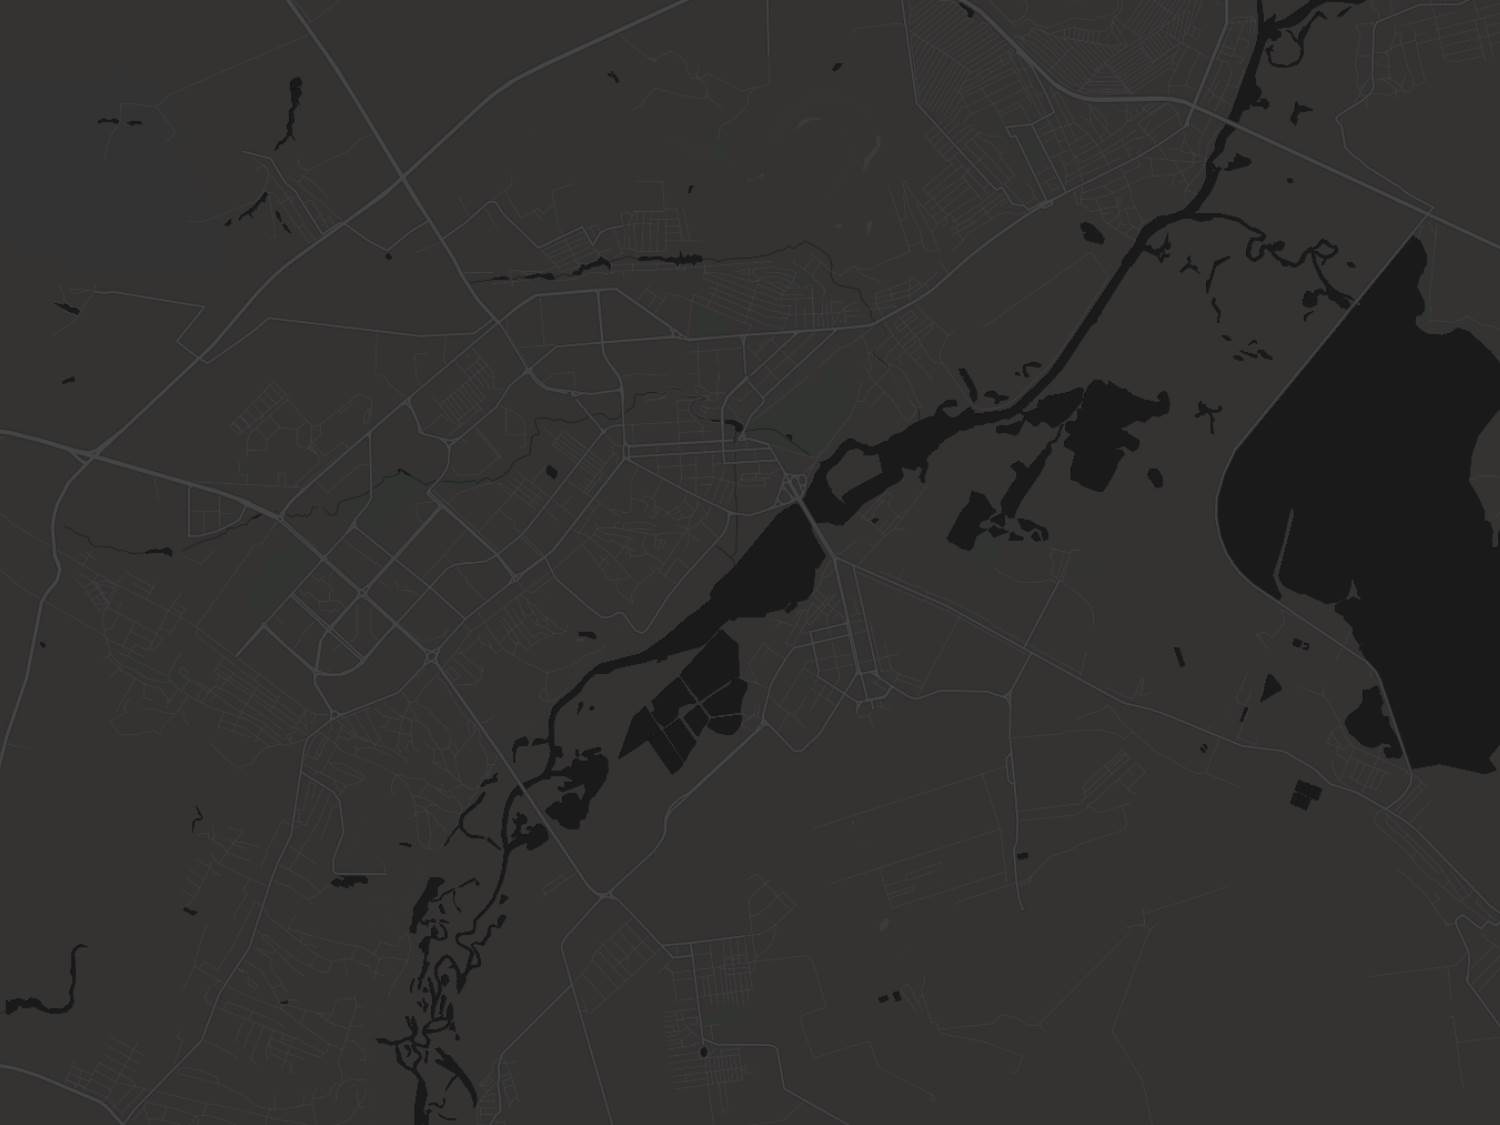
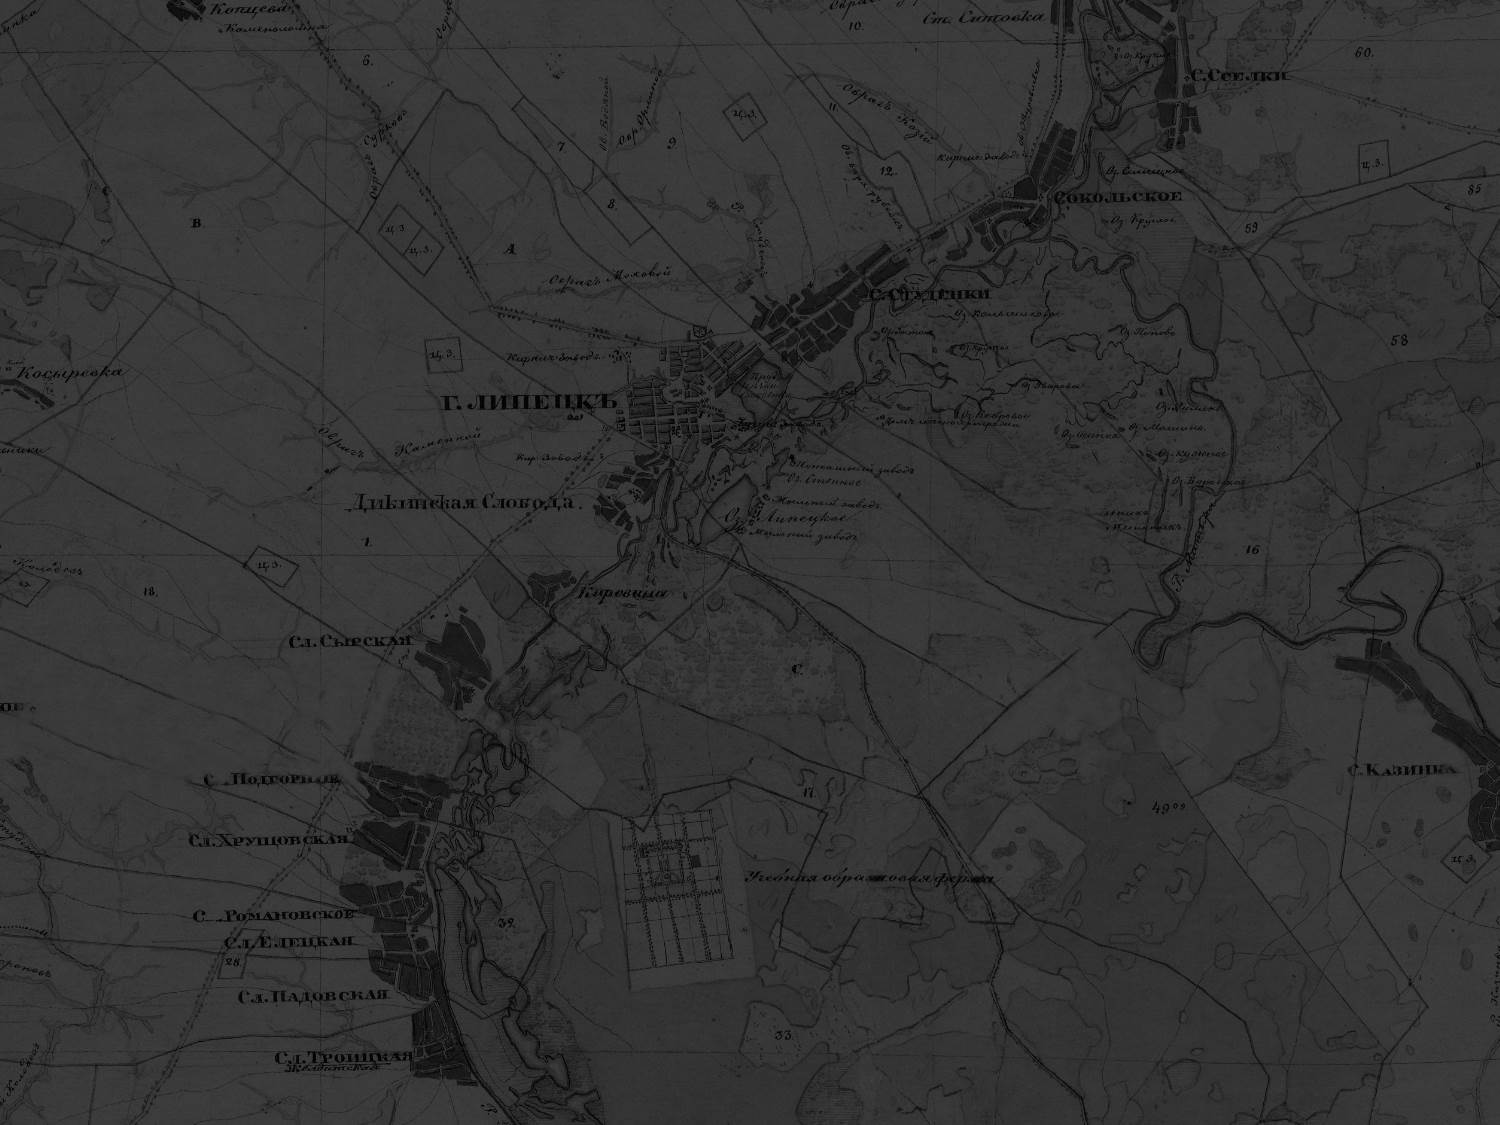
1

diff --git a/css/grayscale.min.css b/css/grayscale.min.css
@@ -2,4 +2,4 @@
  * Start Bootstrap - Grayscale v4.0.0-beta.2 (https://startbootstrap.com/template-overviews/grayscale)
  * Copyright 2013-2017 Start Bootstrap
  * Licensed under MIT (https://github.com/BlackrockDigital/startbootstrap-grayscale/blob/master/LICENSE)
- */body{font-family:Lora,'Helvetica Neue',Helvetica,Arial,sans-serif;position:relative;width:100%;height:100%;color:#fff;background-color:#000}html{width:100%;height:100%}h1,h2,h3,h4,h5,h6{font-family:Cabin,'Helvetica Neue',Helvetica,Arial,sans-serif;font-weight:700;margin:0 0 35px;letter-spacing:1px;text-transform:uppercase}p{font-size:16px;line-height:1.5;margin:0 0 25px}@media (min-width:768px){p{font-size:18px;line-height:1.6;margin:0 0 35px}}a{-webkit-transition:all .2s ease-in-out;-moz-transition:all .2s ease-in-out;transition:all .2s ease-in-out;color:#fff}a:focus,a:hover{text-decoration:none;color:#1d9b6c}#mainNav{font-family:Cabin,'Helvetica Neue',Helvetica,Arial,sans-serif;margin-bottom:0;text-transform:uppercase;border-bottom:1px solid rgba(255,255,255,.3);background-color:#000}#mainNav .navbar-toggler{font-size:14px;padding:11px;color:#fff;border:1px solid #fff}#mainNav .navbar-brand{font-weight:700}#mainNav a{color:#fff}#mainNav .navbar-nav .nav-item{-webkit-transition:background .3s ease-in-out;-moz-transition:background .3s ease-in-out;transition:background .3s ease-in-out}#mainNav .navbar-nav .nav-item:hover{color:fade(white,80%);outline:0;background-color:transparent}#mainNav .navbar-nav .nav-item:active,#mainNav .navbar-nav .nav-item:focus{outline:0;background-color:transparent}@media (min-width:992px){#mainNav{padding-top:20px;padding-bottom:20px;-webkit-transition:background .3s ease-in-out,padding-top .3s ease-in-out,padding-bottom .3s;-moz-transition:background .3s ease-in-out,padding-top .3s ease-in-out,padding-bottom .3s;transition:background .3s ease-in-out,padding-top .3s ease-in-out,padding-bottom .3s;letter-spacing:1px;border-bottom:none;background:0 0}#mainNav.navbar-shrink{padding-top:10px;padding-bottom:10px;border-bottom:1px solid rgba(255,255,255,.3);background:#000}#mainNav .nav-link.active{outline:0;background-color:rgba(255,255,255,.3)}#mainNav .nav-link.active:hover{color:#fff}}.masthead{display:table;width:100%;height:auto;padding:200px 0;text-align:center;color:#fff;background:url(../img/intro-bg.jpg) no-repeat bottom center scroll;background-color:#000;-webkit-background-size:cover;-moz-background-size:cover;-o-background-size:cover;background-size:cover}.masthead .intro-body{display:table-cell;vertical-align:middle}.masthead .intro-body .brand-heading{font-size:50px}.masthead .intro-body .intro-text{font-size:18px}@media (min-width:768px){.masthead{height:100%;padding:0}.masthead .intro-body .brand-heading{font-size:100px}.masthead .intro-body .intro-text{font-size:22px}}.btn-circle{font-size:26px;width:55px;height:55px;margin-top:15px;line-height:45px;-webkit-transition:background .3s ease-in-out;-moz-transition:background .3s ease-in-out;transition:background .3s ease-in-out;color:#fff;border:2px solid #fff;border-radius:100%!important;background:0 0}.btn-circle:focus,.btn-circle:hover{color:#fff;outline:0;background:rgba(255,255,255,.1)}.content-section{background: url("../img/intro-about.jpg") no-repeat bottom center scroll;padding-top:150px;padding-bottom:150px}.contentabout-section {background: url("../img/intro-about.jpg") no-repeat bottom center scroll;}.download-section{color:#fff;background:url(../img/downloads-bg.jpg) no-repeat center center scroll;background-color:#000;-webkit-background-size:cover;-moz-background-size:cover;-o-background-size:cover;background-size:cover}@media (min-width:992px){.content-section{padding-top:200px;padding-bottom:200px}}.btn{font-family:Cabin,'Helvetica Neue',Helvetica,Arial,sans-serif;font-weight:400;-webkit-transition:all .3s ease-in-out;-moz-transition:all .3s ease-in-out;transition:all .3s ease-in-out;text-transform:uppercase;border-radius:0}.btn-default{color:#42dca3;border:1px solid #42dca3;background-color:transparent}.btn-default:focus,.btn-default:hover{color:#000;border:1px solid #42dca3;outline:0;background-color:#42dca3}ul.banner-social-buttons{margin-top:0}@media (max-width:1199px){ul.banner-social-buttons{margin-top:15px}}@media (max-width:767px){ul.banner-social-buttons li{display:block;margin-bottom:20px;padding:0}ul.banner-social-buttons li:last-child{margin-bottom:0}}footer{padding:50px 0}footer p{font-size:14px;margin:0}::-moz-selection{background:#fcfcfc;background:rgba(255,255,255,.2);text-shadow:none}::selection{background:#fcfcfc;background:rgba(255,255,255,.2);text-shadow:none}img::selection{background:0 0}img::-moz-selection{background:0 0}body{-webkit-tap-highlight-color:rgba(255,255,255,.2)}
+ */body{font-family:Lora,'Helvetica Neue',Helvetica,Arial,sans-serif;position:relative;width:100%;height:100%;color:#fff;background-color:#000}html{width:100%;height:100%}h1,h2,h3,h4,h5,h6{font-family:Cabin,'Helvetica Neue',Helvetica,Arial,sans-serif;font-weight:700;margin:0 0 35px;letter-spacing:1px;text-transform:uppercase}p{font-size:16px;line-height:1.5;margin:0 0 25px}@media (min-width:768px){p{font-size:18px;line-height:1.6;margin:0 0 35px}}a{-webkit-transition:all .2s ease-in-out;-moz-transition:all .2s ease-in-out;transition:all .2s ease-in-out;color:#fff}a:focus,a:hover{text-decoration:none;color:#1d9b6c}#mainNav{font-family:Cabin,'Helvetica Neue',Helvetica,Arial,sans-serif;margin-bottom:0;text-transform:uppercase;border-bottom:1px solid rgba(255,255,255,.3);background-color:#000}#mainNav .navbar-toggler{font-size:14px;padding:11px;color:#fff;border:1px solid #fff}#mainNav .navbar-brand{font-weight:700}#mainNav a{color:#fff}#mainNav .navbar-nav .nav-item{-webkit-transition:background .3s ease-in-out;-moz-transition:background .3s ease-in-out;transition:background .3s ease-in-out}#mainNav .navbar-nav .nav-item:hover{color:fade(white,80%);outline:0;background-color:transparent}#mainNav .navbar-nav .nav-item:active,#mainNav .navbar-nav .nav-item:focus{outline:0;background-color:transparent}@media (min-width:992px){#mainNav{padding-top:20px;padding-bottom:20px;-webkit-transition:background .3s ease-in-out,padding-top .3s ease-in-out,padding-bottom .3s;-moz-transition:background .3s ease-in-out,padding-top .3s ease-in-out,padding-bottom .3s;transition:background .3s ease-in-out,padding-top .3s ease-in-out,padding-bottom .3s;letter-spacing:1px;border-bottom:none;background:0 0}#mainNav.navbar-shrink{padding-top:10px;padding-bottom:10px;border-bottom:1px solid rgba(255,255,255,.3);background:#000}#mainNav .nav-link.active{outline:0;background-color:rgba(255,255,255,.3)}#mainNav .nav-link.active:hover{color:#fff}}.masthead{display:table;width:100%;height:auto;padding:200px 0;text-align:center;color:#fff;background:url(../img/intro-bg.jpg) no-repeat bottom center scroll;background-color:#000;-webkit-background-size:cover;-moz-background-size:cover;-o-background-size:cover;background-size:cover}.masthead .intro-body{display:table-cell;vertical-align:middle}.masthead .intro-body .brand-heading{font-size:50px}.masthead .intro-body .intro-text{font-size:18px}@media (min-width:768px){.masthead{height:100%;padding:0}.masthead .intro-body .brand-heading{font-size:100px}.masthead .intro-body .intro-text{font-size:22px}}.btn-circle{font-size:26px;width:55px;height:55px;margin-top:15px;line-height:45px;-webkit-transition:background .3s ease-in-out;-moz-transition:background .3s ease-in-out;transition:background .3s ease-in-out;color:#fff;border:2px solid #fff;border-radius:100%!important;background:0 0}.btn-circle:focus,.btn-circle:hover{color:#fff;outline:0;background:rgba(255,255,255,.1)}.content-section{background: url("../img/intro-about.jpg") no-repeat bottom center scroll;padding-top:150px;padding-bottom:150px}.contentabout-section {height: 100%;color:#fff;background: url("../img/intro-about.jpg") no-repeat bottom center scroll;background-color:#000;-webkit-background-size:cover;-moz-background-size:cover;-o-background-size:cover;background-size:cover}.download-section{color:#fff;background:url(../img/downloads-bg.jpg) no-repeat center center scroll;background-color:#000;-webkit-background-size:cover;-moz-background-size:cover;-o-background-size:cover;background-size:cover}@media (min-width:992px){.content-section{padding-top:200px;padding-bottom:200px}}.btn{font-family:Cabin,'Helvetica Neue',Helvetica,Arial,sans-serif;font-weight:400;-webkit-transition:all .3s ease-in-out;-moz-transition:all .3s ease-in-out;transition:all .3s ease-in-out;text-transform:uppercase;border-radius:0}.btn-default{color:#42dca3;border:1px solid #42dca3;background-color:transparent}.btn-default:focus,.btn-default:hover{color:#000;border:1px solid #42dca3;outline:0;background-color:#42dca3}ul.banner-social-buttons{margin-top:0}@media (max-width:1199px){ul.banner-social-buttons{margin-top:15px}}@media (max-width:767px){ul.banner-social-buttons li{display:block;margin-bottom:20px;padding:0}ul.banner-social-buttons li:last-child{margin-bottom:0}}footer{padding:50px 0}footer p{font-size:14px;margin:0}::-moz-selection{background:#fcfcfc;background:rgba(255,255,255,.2);text-shadow:none}::selection{background:#fcfcfc;background:rgba(255,255,255,.2);text-shadow:none}img::selection{background:0 0}img::-moz-selection{background:0 0}body{-webkit-tap-highlight-color:rgba(255,255,255,.2)}

diff --git a/index.html b/index.html
@@ -66,6 +66,7 @@
         <div class="container">
           <div class="row">
             <div class="col-lg-8 mx-auto">
+              <br><br><br><a rel="external" href="http://lspu-lipetsk.ru/modules.php?name=Lab_GIS" target="_blank">Лаборатория «Открытые ГИС и данные в образовании и географических исследованиях»</a>
               <h1 class="brand-heading">ЧЕТЫРЕ ИЗМЕРЕНИЯ ЛИПЕЦКА</h1>
               <p class="intro-text">ИСТОРИЯ ГОРОДСКОГО ПРОСТРАНСТВА
                 <br>
@@ -75,6 +76,7 @@
                 <a href="#about" class="btn btn-circle js-scroll-trigger">
                 <i class="fa fa-angle-double-down animated"></i>
               </a>
+              <p align=center class="intro-text"><br>Липецк, 2017</p>
             </div>
           </div>
         </div>
@@ -83,19 +85,18 @@
 
     <!-- About Section -->
     <section id="about" class="contentabout-section">
-      <div id="bookinfo" style="position: relative;	left: 10px;	top: 0px;">
-        <br>
-        <p align=center><a rel="external" href="http://lspu-lipetsk.ru/modules.php?name=Lab_GIS" target="_blank">Лаборатория «Открытые ГИС и данные в образовании и географических исследованиях»</a>
-          <br><a rel="external" href="http://lspu-lipetsk.ru" target="_blank">Липецкий государственный педагогический университет имени П.П. Семенова-Тян-Шанского</a>
-          <br><a rel="external" href="http://www.gosdirekcia.ru" target="_blank">Государственная дирекция по охране культурного наследия Липецкой области</a>
-          <br><a rel="external" href="https://www.rgo.ru/ru/lipetsk" target="_blank">Липецкое отделение Русского географического общества</a>
-        </p>
-        <p>УДК
+      <div id="bookinfo" style="position: relative;	left: 10px;	top: 0px;"  align=center>
+        <br><a rel="external" href="http://lspu-lipetsk.ru" target="_blank">Липецкий государственный педагогический университет имени П.П. Семенова-Тян-Шанского</a>
+        <br><a rel="external" href="http://www.gosdirekcia.ru" target="_blank">Государственная дирекция по охране культурного наследия Липецкой области</a>
+        <br><a rel="external" href="https://www.rgo.ru/ru/lipetsk" target="_blank">Липецкое отделение Русского географического общества</a>
+        <br><br>
+        <p align=left>УДК
         <br>
         <br>Карандеев А.Ю., Михайлов С.А., Ивашов М.В., Ивашова Н.Д., Климов Д.С., Михайлов Д.С., Найденов А.А., Тихонов Ю.Н.
         <br>Четыре измерения Липецка. История городского пространства – Липецк, 2017.
-        <br><br><br><br><br></p>
+        <br><br></p>
       </div>
+
 	    <div class="container">
         <div class="row">
           <div class="col-lg-8 mx-auto" align=center>
@@ -108,7 +109,7 @@
             <br><a href="SwipeGIS.html">Охрана природы</a><br>
             <br><a href="SwipeGIS.html">Утраченное культурное наследие</a>
             <br></h5>
-            <p>Липецк, 2017</p>
+
           </div>
         </div>
       </div>

diff --git a/css/grayscale.css b/css/grayscale.css
@@ -145,7 +145,13 @@ a {
   padding-bottom: 150px; }
 
 .contentabout-section {
-    background: url("../img/intro-about.jpg") no-repeat bottom center scroll;}
+    color: white;
+    background: url("../img/intro-about.jpg") no-repeat center center scroll;
+    background-color: black;
+    -webkit-background-size: cover;
+    -moz-background-size: cover;
+    -o-background-size: cover;
+    background-size: cover;}
 
 .download-section {
   color: white;
